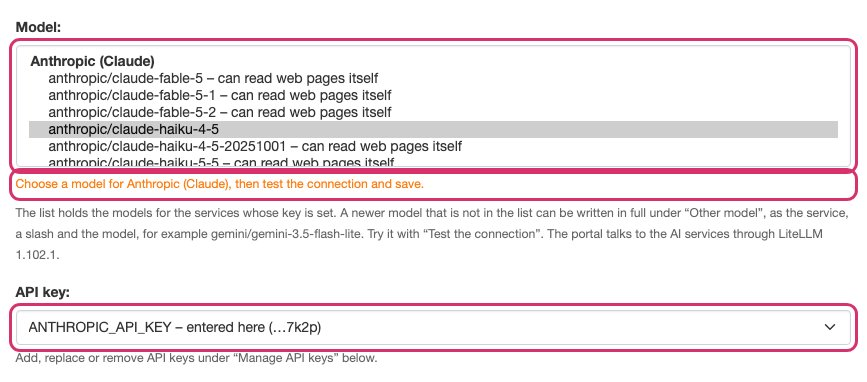
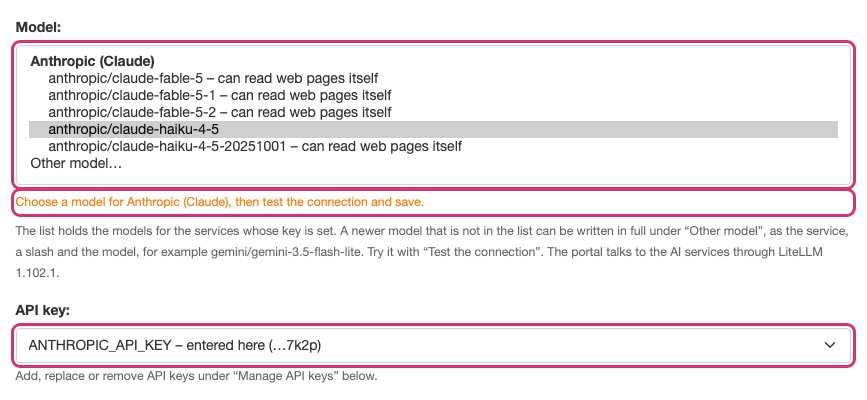
README: three screenshots retaken (whole rows in the model list, the outline clear of the next line, a shorter translation proposal); alt texts; editors see nothing of the connector itself

Changed region(s): [[0.0, 0.0576, 0.9965, 0.6911], [0.0, 0.7487, 0.9965, 0.9503]]

diff --git a/README.md b/README.md
@@ -9,7 +9,7 @@ Every extension that uses AI goes through this connection, so the AI settings ar
 that wants to ask an AI something asks ckanext-ai-connector for a client, instead of having its own settings page, keys
 and code for each AI service.
 
-ckanext-ai-connector does nothing with the AI by itself. It has no opinion about what is asked: prompts, the shape of the
+Editors see nothing of ckanext-ai-connector itself: what they see is the extension that uses the AI. ckanext-ai-connector does nothing with the AI by itself. It has no opinion about what is asked: prompts, the shape of the
 answers and what is done with them belong to the extension that asks.
 
 ![The AI settings page: the setup checks are in order, and a test of the connection has just answered with the chosen model](docs/images/settings-page.jpg)
